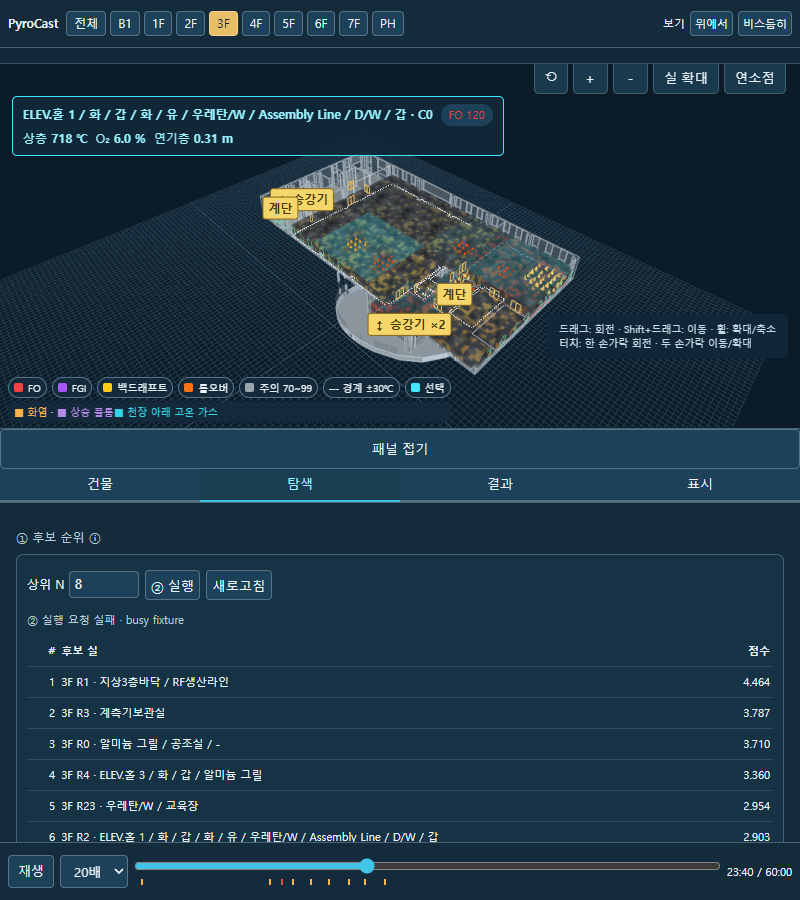
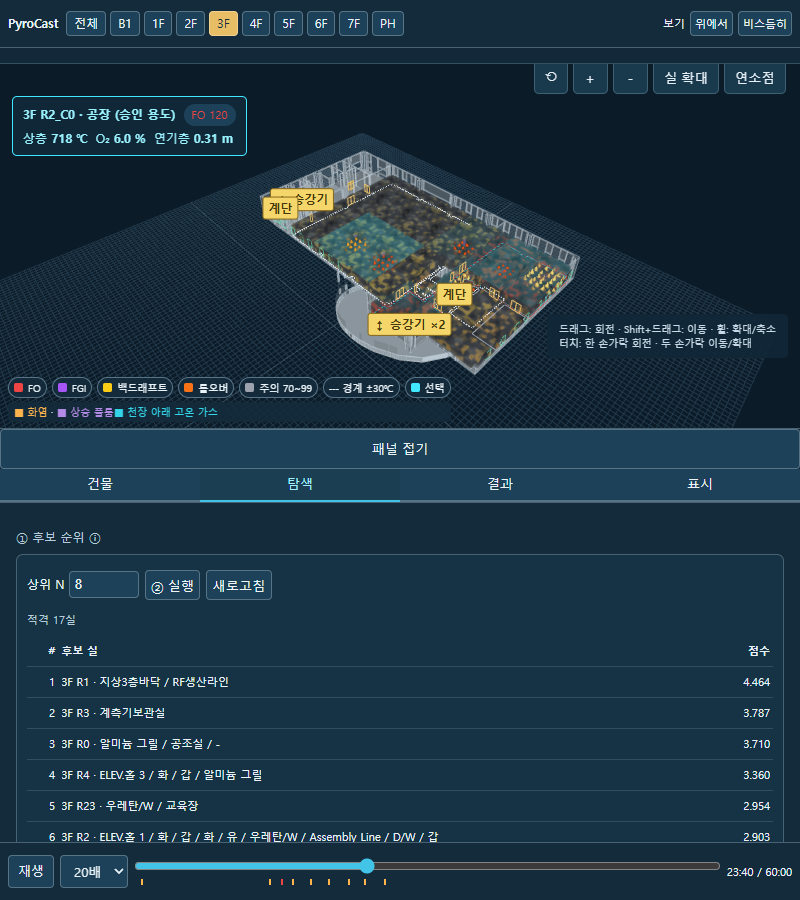
Finalize exploration scope and clarified panel controls

Changed region(s): [[0.0312, 0.0933, 0.5, 0.1867], [0.5312, 0.0933, 0.625, 0.1556], [0.0312, 0.6844, 0.2188, 0.7156]]

diff --git a/PyroCast/simulation/viewer/overlay.js b/PyroCast/simulation/viewer/overlay.js
@@ -1535,7 +1535,7 @@ function createDisplayPanel({store,selectionLabel}){
  const $=id=>document.getElementById(id),pane=$('shellPane-display'),cleanups=[],moves=[];
  const move=(node,parent)=>{const marker=document.createComment('display restore');node.before(marker);moves.push(()=>marker.replaceWith(node));parent.append(node);};
  const listen=(node,event,fn)=>{node.addEventListener(event,fn);cleanups.push(()=>node.removeEventListener(event,fn));};
- pane.innerHTML='<h3>레이어</h3><div id="displayLayers"></div><h3>위험 유형</h3><div id="displayRisks"></div><h3>임계값</h3><div class="displaySettings"><label>테두리 <input id="displayRibbon" type="number" min="0" step="5" value="100"></label><label>주의 <input id="displayCaution" type="number" min="0" step="5" value="70"></label><span id="displayError" role="alert"></span></div><h3>연기</h3><div id="displaySmokeSettings" class="displaySettings"></div>';
+ pane.innerHTML='<h3>보기</h3><div id="displayViewSettings"></div><h3>레이어</h3><div id="displayLayers"></div><h3>위험 유형</h3><div id="displayRisks"></div><h3>임계값</h3><div class="displaySettings"><label>테두리 <input id="displayRibbon" type="number" min="0" step="5" value="100"></label><label>주의 <input id="displayCaution" type="number" min="0" step="5" value="70"></label><span id="displayError" role="alert"></span></div><h3>연기</h3><div id="displaySmokeSettings" class="displaySettings"></div>';
  const bindings=[];
  function toggle(host,id,label,color,read,write,existing=false,tip=''){
   const row=document.createElement('div');row.className='displayToggle';const text=document.createElement('label');text.htmlFor=id;text.innerHTML=`<i style="background:${color}"></i>`;text.append(label);row.append(text);
@@ -1543,6 +1543,7 @@ function createDisplayPanel({store,selectionLabel}){
   let input;if(existing){input=$(id);const oldLabel=input.closest('label');move(input,row);oldLabel.remove();}else{input=document.createElement('input');input.type='checkbox';input.id=id;row.append(input);listen(input,'change',()=>write(input.checked));}
   input.setAttribute('role','switch');host.append(row);bindings.push(()=>input.checked=read());return input;
  }
+ toggle($('displayViewSettings'),'displayReal','실감 보기','#62dcb0',()=>store.get('realView').enabled,enabled=>store.dispatch('realView/set',{enabled}));
  for(const [id,label,color,layer] of [['liteSmoke','연기','#9ca3af','smoke'],['displayFlame','화염','#ffa824','flame'],['litePlumes','상승 플룸·천장 가스','#b38ae6','plume'],['displayRisk','위험 테두리','#ef4444','risk']])toggle($('displayLayers'),id,label,color,()=>store.get('layers')[layer],visible=>store.dispatch('layers/toggle',{id:layer,visible}),id.startsWith('lite'),'저장된 결과의 표시만 전환합니다.');
  for(const [id,label,color,key] of [['liteDoors','실내 문 위치','#e6bd68','interior'],['liteExterior','외부 창','#62dcb0','exterior']])toggle($('displayLayers'),id,label,color,()=>store.get('openings')[key],null,true,'문틀·창 위치 표시이며 시뮬레이션 개폐 조건은 바뀌지 않습니다.');
  toggle($('displayLayers'),'liteCores','계단·승강기 투시','#ffc342',()=>store.get('layers').core,null,true,'전체 건물 보기에서만 표시합니다.');
@@ -1573,7 +1574,7 @@ function createDisplayPanel({store,selectionLabel}){
  for(const slice of ['layers','openings','realView','risk'])cleanups.push(store.subscribe(slice,sync));sync();
  function hud({building,result,series,index,selection}){
   const rooms=building.floors.flatMap(f=>f.rooms),room=rooms.find(r=>r.room_id===selection.room_id),cell=selection.cell_id??(room?.cells.length===1?room.cells[0].cell_id:null),s=cell?series.cells[cell]:null;
-  $('hudRoom').textContent=(room?.name||selection.room_id||'실 선택')+(cell&&cell!==room?.room_id?' · '+cell.split('_').at(-1):'');
+  $('hudRoom').textContent=$('liteRoom').selectedOptions[0]?.textContent||'실 선택';
   const scores=phenomena.map(([key,name,color])=>({key,name,color,value:cell?result.index_by_cell[cell]?.[key]?.[index]:null})).filter(s=>Number.isFinite(s.value)).sort((a,b)=>b.value-a.value),top=scores[0];
   $('hudPill').textContent=top?`${top.name} ${Math.round(top.value)}`:'미평가';$('hudPill').style.color=top?.color||'';
   const format=(n,suffix,digits)=>Number.isFinite(n)?n.toFixed(digits)+suffix:'—';$('hudT').textContent=format(s?.T_upper_C[index],' ℃',0);$('hudO').textContent=format(s?.O2_upper_volfrac[index]==null?null:s.O2_upper_volfrac[index]*100,' %',1);$('hudH').textContent=format(s?.interface_m[index],' m',2);
@@ -1613,8 +1614,10 @@ function createResultsPanel({panel,store}){
  const move=(node,parent)=>{const mark=document.createComment('result restore');node.before(mark);moves.push(()=>mark.replaceWith(node));parent.append(node);};
  root.innerHTML='<h3>저장 결과</h3><div class="resultCard" id="resultCase"><label for="liteCase">사례</label><div id="resultCaseControls"></div><div id="resultMetadata"></div><div class="resultTools" id="resultTools"></div></div><h3>선택 실 위험 지수 <span class="resultInfo" tabindex="0" title="저장된 조건 지수 × 100. 100은 세 조건의 기준이며 발생 확률이 아닙니다. 표시 임계선은 표시 탭 설정을 따릅니다.">ⓘ</span></h3><div class="resultCard"><label for="liteRoom">실·셀</label><div id="resultRoomControl"></div><div id="resultRoomTitle"></div><details id="resultCells"><summary>셀 목록 · 방 평균 없음</summary><div id="resultCellList"></div></details><div id="resultScores"></div><div id="resultBottleneck"></div><details><summary>계산값</summary><div id="resultQuantities"></div></details></div><h3>MC 집계 <span class="resultInfo" tabindex="0" title="표본 비율은 발생 확률이 아닙니다. ≥100은 고정 집계 기준이며 표시 임계값 변경과 별개입니다. 최대 실은 전체 시간 중 한 번 이상 충족한 원래 방 수의 표본 간 최대입니다.">ⓘ</span></h3><div class="resultCard"><div id="resultMCStatus" role="status"></div><button id="resultMCLoad">저장 표본 집계 읽기</button><table><thead><tr><th>현상</th><th>≥100 표본</th><th>최대 실</th><th>지수 최대</th></tr></thead><tbody id="resultMCRows"></tbody></table><div id="resultMCBasis"></div></div><details id="resultLimits"><summary>가정과 한계</summary><ul></ul></details>';
  move($('liteCase'),$('resultCaseControls'));move($('liteRefresh'),$('resultCaseControls'));$('liteRefresh').textContent='목록 새로고침';move($('liteRoom'),$('resultRoomControl'));
- for(const id of ['liteWhole','liteBuilding','liteReal','liteReview'])move($(id),$('resultTools'));
+ $('resultTools').remove();
+ const reviewDetails=document.createElement('details');reviewDetails.id='resultMenuReview';reviewDetails.innerHTML='<summary>전체 메뉴 검토</summary><div id="resultReviewMount"></div>';root.append(reviewDetails);
  const style=document.createElement('style');style.dataset.pyrocastResults='true';style.textContent=`
+ #resultContent #pyroMenuReview{position:static;inset:auto;width:auto;height:auto;max-height:none;overflow:visible;padding:8px 0;border:0;box-shadow:none;z-index:auto;font-size:11px}#resultContent #pyroMenuReview header{display:none}#resultContent #pyroMenuReview .reviewSection{overflow:auto}
  #resultContent{padding:12px 16px;font-size:12px;color:#eaf3f8}#resultContent h3{font-size:12px;font-weight:500;color:#b8cbd8;margin:14px 0 8px}.resultCard{border:1px solid #496273;border-radius:7px;padding:10px;margin-bottom:12px;background:#163345}.resultCard>label{display:block;margin-bottom:5px;color:#b8cbd8}
  #resultContent select{max-width:100%;width:100%;box-sizing:border-box;background:#1d4158;color:#eef5fa;padding:6px;border:1px solid #6a8d9f;border-radius:4px}#resultContent button{background:#1d4158;color:#eef5fa;border:1px solid #577487;border-radius:4px;padding:5px 7px;cursor:pointer}#resultContent button:focus-visible{outline:2px solid #42e8ff}.resultTools{display:flex;flex-wrap:wrap;gap:5px;margin-top:8px}#resultCaseControls button{margin-top:6px}#resultMetadata,#resultBottleneck,#resultMCBasis{font-size:11px;color:#b8cbd8;margin-top:8px}#resultRoomTitle{font-weight:600;margin:10px 0;overflow-wrap:anywhere}#resultCells{margin-bottom:10px}#resultCellList{display:flex;gap:5px;flex-wrap:wrap;padding-top:6px}#resultCellList button[aria-pressed=true]{border-color:#42e8ff;color:#42e8ff}
  .resultScore{display:grid;grid-template-columns:62px 1fr 54px;gap:6px;align-items:center;margin:14px 0}.resultBar{height:7px;background:#304c5e;border-radius:4px;position:relative}.resultFill{display:block;height:100%;border-radius:4px}.resultMark{position:absolute;top:-5px;height:17px;border-left:1px dashed #ced9df}.resultMark.main{border-color:#fff;border-left-style:solid}.resultValue{text-align:right;font-variant-numeric:tabular-nums}.resultScale{font-size:10px;text-align:right;color:#b8cbd8}.resultInfo{cursor:help;color:#b8cbd8}#resultQuantities{display:grid;grid-template-columns:1fr auto;gap:5px;margin-top:8px}#resultContent details{margin-top:8px}#resultContent summary{cursor:pointer;color:#b8cbd8}#resultContent table{width:100%;border-collapse:collapse;font-size:11px;margin-top:8px}#resultContent th,#resultContent td{border-bottom:1px solid #304c5e;padding:7px 2px;text-align:right}#resultContent th:first-child,#resultContent td:first-child{text-align:left}#resultMCLoad{margin-top:8px}#resultLimits li{margin:6px 0;color:#b8cbd8}#resultMCStatus{font-size:11px}
@@ -1644,7 +1647,7 @@ function createResultsPanel({panel,store}){
   $('resultMCStatus').textContent=summary?`저장 ${summary.completed}/${summary.rows.length}표본`:'저장 MC 집계 없음';$('resultMCLoad').disabled=!summary;
  }
  mc(null);
- return {update,mc,dispose(){for(const undo of moves.reverse())undo();panel.hidden=false;root.remove();style.remove();}};
+ return {update,mc,mountReview(review){$('resultReviewMount').append(review);review.hidden=false;},dispose(){for(const undo of moves.reverse())undo();panel.hidden=false;root.remove();style.remove();}};
 }
 
 return {resultTypes,selectedScores,summarizeMCPlayback,createResultsPanel};
@@ -1669,7 +1672,7 @@ function createExplorePanel({store,onRun,onRefresh,onResults}){
  <div class="exploreCard"><form id="exploreRunForm"><label>상위 N <input id="exploreN" type="number" min="1" step="1" value="8" required></label><button id="exploreRun" type="submit" disabled>② 실행</button><button id="exploreRefresh" type="button">새로고침</button></form><div id="exploreStatus" role="status">목록 읽는 중</div><div class="exploreScroll"><table><thead><tr><th>#</th><th>후보 실</th><th>점수</th></tr></thead><tbody id="exploreCandidates"></tbody></table></div></div>
  <h3>② 시뮬레이션 순위 <span tabindex="0" title="기존 서버 순위: 연소 실 수 → 연기 위험 도달 실 수 → 최초 FO가 빠른 순. 두 극단 상태 중 나쁜 쪽을 사용합니다. 행을 선택하면 다음 탐색의 화점만 바뀝니다.">ⓘ</span></h3>
  <div class="exploreCard"><div id="exploreRankBasis"></div><div class="exploreScroll"><table><thead><tr><th>#</th><th>화점</th><th>①순위</th><th>연소</th><th>연기</th><th>최초 FO</th></tr></thead><tbody id="exploreRanking"></tbody></table></div></div>
- <h3>③ 몬테카를로</h3><div class="exploreCard"><label>화점 <select id="exploreOrigin" disabled></select></label><label>표본 수 <input id="exploreSamples" type="number" min="1" step="1" value="10" required></label><div id="exploreEstimate" title="저장된 MC 전체 경과시간 ÷ 완료 표본 수 × 요청 표본 수. 다른 화점과 개폐 조건의 소요시간은 달라질 수 있습니다.">예상 시간 —</div><div class="exploreButtons"><button id="exploreMC" disabled title="현재 서버에 MC 실행 경로가 없습니다. 연결 방식을 확인 중입니다.">실행</button><button id="exploreResults" disabled>결과 보기</button></div><div id="exploreMCStatus" role="status">실행 경로 확인 중</div></div>
+ <h3>③ 몬테카를로</h3><div class="exploreCard"><label>화점 <select id="exploreOrigin" disabled></select></label><label>표본 수 <input id="exploreSamples" type="number" min="1" step="1" value="10" required></label><div id="exploreEstimate" title="저장된 MC 전체 경과시간 ÷ 완료 표본 수 × 요청 표본 수. 다른 화점과 개폐 조건의 소요시간은 달라질 수 있습니다.">예상 시간 —</div><div class="exploreButtons"><button id="exploreMC" disabled title="서버 실행 경로는 5단계">MC 실행</button><button id="exploreResults" disabled>결과 보기</button></div><div id="exploreMCStatus" role="status">MC 실행 · 5단계</div></div>
  <details id="exploreRules"><summary>규칙 설정</summary><div id="exploreRuleContext"></div><div id="exploreRuleMount"></div></details>`;
  const style=document.createElement('style');style.dataset.pyrocastExplore='true';style.textContent=`
  #exploreContent{padding:12px 16px;font-size:12px;color:#eaf3f8}#exploreContent h3{font-size:12px;font-weight:500;color:#b8cbd8;margin:14px 0 8px}#exploreContent h3 span{cursor:help}.exploreCard{border:1px solid #496273;border-radius:7px;padding:10px;margin-bottom:12px;background:#163345}#exploreContent label{display:block;margin:6px 0}#exploreContent input,#exploreContent select,#exploreContent button{background:#1d4158;color:#eef5fa;border:1px solid #577487;border-radius:4px;padding:5px;box-sizing:border-box}#exploreContent input{width:70px}#exploreOrigin{width:100%;margin-top:5px}#exploreContent button{cursor:pointer}#exploreContent :disabled{opacity:.5;cursor:default}#exploreRunForm,.exploreButtons{display:flex;gap:6px;align-items:center;flex-wrap:wrap}#exploreContent :focus-visible{outline:2px solid #42e8ff}.exploreScroll{overflow:auto;max-height:270px}#exploreContent table{border-collapse:collapse;width:100%;font-size:11px}#exploreContent th,#exploreContent td{text-align:right;padding:7px 3px;border-bottom:1px solid #304c5e;white-space:nowrap}#exploreContent th:nth-child(2),#exploreContent td:nth-child(2){text-align:left}#exploreContent td:nth-child(2){white-space:normal;min-width:68px}#exploreContent tr[data-room]{cursor:pointer}#exploreContent tr[aria-selected=true]{background:#245166;box-shadow:inset 2px 0 #42e8ff}#exploreStatus,#exploreRankBasis,#exploreEstimate,#exploreMCStatus,#exploreRuleContext{font-size:11px;color:#b8cbd8;margin:8px 0;overflow-wrap:anywhere}#exploreContent details{margin-top:12px}#exploreContent summary{cursor:pointer;color:#b8cbd8}#exploreRules input{max-width:100%}#exploreRules table{display:block;overflow:auto}#exploreRules #r8SettingsGrid{grid-template-columns:1fr!important}#exploreRules #cfbtFrozenRules>summary{display:none}
@@ -1683,7 +1686,7 @@ function createExplorePanel({store,onRun,onRefresh,onResults}){
   const estimate=mcEstimate(summary,state.samples);$('exploreEstimate').textContent=estimate===null?'예상 시간 미확인':`예상 약 ${Math.ceil(estimate/60)}분 · 이전 MC 기준`;
   const matching=Boolean(summary&&mcOrigin&&state.origin_room_id===mcOrigin);$('exploreResults').disabled=!matching;
   $('exploreResults').title=matching?'선택 화점의 저장 MC 집계 보기':`선택 화점의 저장 MC 결과 없음${mcOrigin?' · 저장 화점 '+pretty(mcOrigin):''}`;
-  $('exploreMCStatus').textContent='실행 경로 확인 중'+(matching?' · 저장 결과 있음':' · 저장 결과 없음');
+  $('exploreMCStatus').textContent='MC 실행 · 5단계'+(matching?' · 저장 결과 있음':' · 저장 결과 없음');
   $('exploreRun').disabled=pending||!payload||Boolean(payload.progress?.running);$('exploreN').disabled=pending||Boolean(payload?.progress?.running);
  }
  $('exploreN').onchange=()=>{if($('exploreN').checkValidity())store.dispatch('exploration/set',{top_n:Number($('exploreN').value)});};
@@ -1792,7 +1795,7 @@ async function attachModern(viewer,initial,{clock={now:()=>performance.now()}}={
   syncOperations();
   host.render();
   const signature=JSON.stringify([index(),selected?.key,clicked,store.get('playback').playing,f,store.get('realView'),store.get('layers'),store.get('openings'),store.get('risk')]);
-  if(signature!==lastPanel){updateLitePanel({data,index:index(),selected,clicked,playing:store.get('playback').playing,floor:f,$,selectionLabel,riskStatus:risk.summary()});const context={building:store.get('building'),result:store.get('result'),series:cache.get(store.get('result').result_id),index:index(),selection:store.get('selection')};display.hud(context);results.update(context);shell.syncStatus();lastPanel=signature;}
+  if(signature!==lastPanel){$('liteReal').setAttribute('aria-pressed',String(store.get('realView').enabled));updateLitePanel({data,index:index(),selected,clicked,playing:store.get('playback').playing,floor:f,$,selectionLabel,riskStatus:risk.summary()});const context={building:store.get('building'),result:store.get('result'),series:cache.get(store.get('result').result_id),index:index(),selection:store.get('selection')};display.hud(context);results.update(context);shell.syncStatus();lastPanel=signature;}
  }finally{busy=false;}}
  function frame(){if(!ready||disposed)return;const ms=clock.now();
   if(document.hidden){last=ms;return;}
@@ -1866,7 +1869,7 @@ async function attachModern(viewer,initial,{clock={now:()=>performance.now()}}={
   const descriptions=[...rules.querySelectorAll(':scope > p, :scope > form > p')].filter(p=>p.getAttribute('role')!=='alert');
   $('exploreRules').querySelector('summary').title=descriptions.map(p=>p.textContent).join(' ');for(const p of descriptions)p.hidden=true;
  }catch(error){$('exploreRuleMount').textContent='규칙 설정 읽기 실패 · '+error.message;}
- const review=await createMenuReview(panel,viewer);review.hidden=true;handler($('liteReview'),'onclick',()=>{review.hidden=false;});document.body.classList.add('cfbtReady');resize();
+ const review=await createMenuReview(panel,viewer);results.mountReview(review);handler($('reviewClose'),'onclick',()=>{$('resultMenuReview').open=false;});handler($('liteReview'),'onclick',()=>{$('shellTab-result').click();$('resultMenuReview').open=true;});document.body.classList.add('cfbtReady');resize();
  function dispose(){if(disposed)return;disposed=true;screeningRequest++;exploreAbort.abort();if(screeningPoll)clearTimeout(screeningPoll);frozenRules?.dispose();loadSerial++;mcRun++;mcAbort?.abort();store.dispatch('result/load');observer.disconnect();for(const off of cleanup.reverse())off();review.dispose();host.dispose();explore.dispose();results.dispose();display.dispose();shell.dispose();cache.clear();panel.remove();selectionLabel.remove();style.remove();legacyRoot.visible=legacyVisible;document.body.classList.toggle('cfbtReady',wasReady);if(panelHeight)document.documentElement.style.setProperty('--cfbt-height',panelHeight);else document.documentElement.style.removeProperty('--cfbt-height');}
  on(window,'pagehide',dispose);
  return Object.freeze({store,host,layers,render,install,dispose,diagnostics:()=>({ui:'modern',autoFit,case_id:chosen,canvasCount:$('v').querySelectorAll('canvas').length,legendCount:document.querySelectorAll('#cfMeaning').length})});

diff --git a/PyroCast/app/web/panels/explore.js b/PyroCast/app/web/panels/explore.js
@@ -15,7 +15,7 @@ export function createExplorePanel({store,onRun,onRefresh,onResults}){
  <div class="exploreCard"><form id="exploreRunForm"><label>상위 N <input id="exploreN" type="number" min="1" step="1" value="8" required></label><button id="exploreRun" type="submit" disabled>② 실행</button><button id="exploreRefresh" type="button">새로고침</button></form><div id="exploreStatus" role="status">목록 읽는 중</div><div class="exploreScroll"><table><thead><tr><th>#</th><th>후보 실</th><th>점수</th></tr></thead><tbody id="exploreCandidates"></tbody></table></div></div>
  <h3>② 시뮬레이션 순위 <span tabindex="0" title="기존 서버 순위: 연소 실 수 → 연기 위험 도달 실 수 → 최초 FO가 빠른 순. 두 극단 상태 중 나쁜 쪽을 사용합니다. 행을 선택하면 다음 탐색의 화점만 바뀝니다.">ⓘ</span></h3>
  <div class="exploreCard"><div id="exploreRankBasis"></div><div class="exploreScroll"><table><thead><tr><th>#</th><th>화점</th><th>①순위</th><th>연소</th><th>연기</th><th>최초 FO</th></tr></thead><tbody id="exploreRanking"></tbody></table></div></div>
- <h3>③ 몬테카를로</h3><div class="exploreCard"><label>화점 <select id="exploreOrigin" disabled></select></label><label>표본 수 <input id="exploreSamples" type="number" min="1" step="1" value="10" required></label><div id="exploreEstimate" title="저장된 MC 전체 경과시간 ÷ 완료 표본 수 × 요청 표본 수. 다른 화점과 개폐 조건의 소요시간은 달라질 수 있습니다.">예상 시간 —</div><div class="exploreButtons"><button id="exploreMC" disabled title="현재 서버에 MC 실행 경로가 없습니다. 연결 방식을 확인 중입니다.">실행</button><button id="exploreResults" disabled>결과 보기</button></div><div id="exploreMCStatus" role="status">실행 경로 확인 중</div></div>
+ <h3>③ 몬테카를로</h3><div class="exploreCard"><label>화점 <select id="exploreOrigin" disabled></select></label><label>표본 수 <input id="exploreSamples" type="number" min="1" step="1" value="10" required></label><div id="exploreEstimate" title="저장된 MC 전체 경과시간 ÷ 완료 표본 수 × 요청 표본 수. 다른 화점과 개폐 조건의 소요시간은 달라질 수 있습니다.">예상 시간 —</div><div class="exploreButtons"><button id="exploreMC" disabled title="서버 실행 경로는 5단계">MC 실행</button><button id="exploreResults" disabled>결과 보기</button></div><div id="exploreMCStatus" role="status">MC 실행 · 5단계</div></div>
  <details id="exploreRules"><summary>규칙 설정</summary><div id="exploreRuleContext"></div><div id="exploreRuleMount"></div></details>`;
  const style=document.createElement('style');style.dataset.pyrocastExplore='true';style.textContent=`
  #exploreContent{padding:12px 16px;font-size:12px;color:#eaf3f8}#exploreContent h3{font-size:12px;font-weight:500;color:#b8cbd8;margin:14px 0 8px}#exploreContent h3 span{cursor:help}.exploreCard{border:1px solid #496273;border-radius:7px;padding:10px;margin-bottom:12px;background:#163345}#exploreContent label{display:block;margin:6px 0}#exploreContent input,#exploreContent select,#exploreContent button{background:#1d4158;color:#eef5fa;border:1px solid #577487;border-radius:4px;padding:5px;box-sizing:border-box}#exploreContent input{width:70px}#exploreOrigin{width:100%;margin-top:5px}#exploreContent button{cursor:pointer}#exploreContent :disabled{opacity:.5;cursor:default}#exploreRunForm,.exploreButtons{display:flex;gap:6px;align-items:center;flex-wrap:wrap}#exploreContent :focus-visible{outline:2px solid #42e8ff}.exploreScroll{overflow:auto;max-height:270px}#exploreContent table{border-collapse:collapse;width:100%;font-size:11px}#exploreContent th,#exploreContent td{text-align:right;padding:7px 3px;border-bottom:1px solid #304c5e;white-space:nowrap}#exploreContent th:nth-child(2),#exploreContent td:nth-child(2){text-align:left}#exploreContent td:nth-child(2){white-space:normal;min-width:68px}#exploreContent tr[data-room]{cursor:pointer}#exploreContent tr[aria-selected=true]{background:#245166;box-shadow:inset 2px 0 #42e8ff}#exploreStatus,#exploreRankBasis,#exploreEstimate,#exploreMCStatus,#exploreRuleContext{font-size:11px;color:#b8cbd8;margin:8px 0;overflow-wrap:anywhere}#exploreContent details{margin-top:12px}#exploreContent summary{cursor:pointer;color:#b8cbd8}#exploreRules input{max-width:100%}#exploreRules table{display:block;overflow:auto}#exploreRules #r8SettingsGrid{grid-template-columns:1fr!important}#exploreRules #cfbtFrozenRules>summary{display:none}
@@ -29,7 +29,7 @@ export function createExplorePanel({store,onRun,onRefresh,onResults}){
   const estimate=mcEstimate(summary,state.samples);$('exploreEstimate').textContent=estimate===null?'예상 시간 미확인':`예상 약 ${Math.ceil(estimate/60)}분 · 이전 MC 기준`;
   const matching=Boolean(summary&&mcOrigin&&state.origin_room_id===mcOrigin);$('exploreResults').disabled=!matching;
   $('exploreResults').title=matching?'선택 화점의 저장 MC 집계 보기':`선택 화점의 저장 MC 결과 없음${mcOrigin?' · 저장 화점 '+pretty(mcOrigin):''}`;
-  $('exploreMCStatus').textContent='실행 경로 확인 중'+(matching?' · 저장 결과 있음':' · 저장 결과 없음');
+  $('exploreMCStatus').textContent='MC 실행 · 5단계'+(matching?' · 저장 결과 있음':' · 저장 결과 없음');
   $('exploreRun').disabled=pending||!payload||Boolean(payload.progress?.running);$('exploreN').disabled=pending||Boolean(payload?.progress?.running);
  }
  $('exploreN').onchange=()=>{if($('exploreN').checkValidity())store.dispatch('exploration/set',{top_n:Number($('exploreN').value)});};

diff --git a/PyroCast/app/web/panels/results.js b/PyroCast/app/web/panels/results.js
@@ -24,8 +24,10 @@ export function createResultsPanel({panel,store}){
  const move=(node,parent)=>{const mark=document.createComment('result restore');node.before(mark);moves.push(()=>mark.replaceWith(node));parent.append(node);};
  root.innerHTML='<h3>저장 결과</h3><div class="resultCard" id="resultCase"><label for="liteCase">사례</label><div id="resultCaseControls"></div><div id="resultMetadata"></div><div class="resultTools" id="resultTools"></div></div><h3>선택 실 위험 지수 <span class="resultInfo" tabindex="0" title="저장된 조건 지수 × 100. 100은 세 조건의 기준이며 발생 확률이 아닙니다. 표시 임계선은 표시 탭 설정을 따릅니다.">ⓘ</span></h3><div class="resultCard"><label for="liteRoom">실·셀</label><div id="resultRoomControl"></div><div id="resultRoomTitle"></div><details id="resultCells"><summary>셀 목록 · 방 평균 없음</summary><div id="resultCellList"></div></details><div id="resultScores"></div><div id="resultBottleneck"></div><details><summary>계산값</summary><div id="resultQuantities"></div></details></div><h3>MC 집계 <span class="resultInfo" tabindex="0" title="표본 비율은 발생 확률이 아닙니다. ≥100은 고정 집계 기준이며 표시 임계값 변경과 별개입니다. 최대 실은 전체 시간 중 한 번 이상 충족한 원래 방 수의 표본 간 최대입니다.">ⓘ</span></h3><div class="resultCard"><div id="resultMCStatus" role="status"></div><button id="resultMCLoad">저장 표본 집계 읽기</button><table><thead><tr><th>현상</th><th>≥100 표본</th><th>최대 실</th><th>지수 최대</th></tr></thead><tbody id="resultMCRows"></tbody></table><div id="resultMCBasis"></div></div><details id="resultLimits"><summary>가정과 한계</summary><ul></ul></details>';
  move($('liteCase'),$('resultCaseControls'));move($('liteRefresh'),$('resultCaseControls'));$('liteRefresh').textContent='목록 새로고침';move($('liteRoom'),$('resultRoomControl'));
- for(const id of ['liteWhole','liteBuilding','liteReal','liteReview'])move($(id),$('resultTools'));
+ $('resultTools').remove();
+ const reviewDetails=document.createElement('details');reviewDetails.id='resultMenuReview';reviewDetails.innerHTML='<summary>전체 메뉴 검토</summary><div id="resultReviewMount"></div>';root.append(reviewDetails);
  const style=document.createElement('style');style.dataset.pyrocastResults='true';style.textContent=`
+ #resultContent #pyroMenuReview{position:static;inset:auto;width:auto;height:auto;max-height:none;overflow:visible;padding:8px 0;border:0;box-shadow:none;z-index:auto;font-size:11px}#resultContent #pyroMenuReview header{display:none}#resultContent #pyroMenuReview .reviewSection{overflow:auto}
  #resultContent{padding:12px 16px;font-size:12px;color:#eaf3f8}#resultContent h3{font-size:12px;font-weight:500;color:#b8cbd8;margin:14px 0 8px}.resultCard{border:1px solid #496273;border-radius:7px;padding:10px;margin-bottom:12px;background:#163345}.resultCard>label{display:block;margin-bottom:5px;color:#b8cbd8}
  #resultContent select{max-width:100%;width:100%;box-sizing:border-box;background:#1d4158;color:#eef5fa;padding:6px;border:1px solid #6a8d9f;border-radius:4px}#resultContent button{background:#1d4158;color:#eef5fa;border:1px solid #577487;border-radius:4px;padding:5px 7px;cursor:pointer}#resultContent button:focus-visible{outline:2px solid #42e8ff}.resultTools{display:flex;flex-wrap:wrap;gap:5px;margin-top:8px}#resultCaseControls button{margin-top:6px}#resultMetadata,#resultBottleneck,#resultMCBasis{font-size:11px;color:#b8cbd8;margin-top:8px}#resultRoomTitle{font-weight:600;margin:10px 0;overflow-wrap:anywhere}#resultCells{margin-bottom:10px}#resultCellList{display:flex;gap:5px;flex-wrap:wrap;padding-top:6px}#resultCellList button[aria-pressed=true]{border-color:#42e8ff;color:#42e8ff}
  .resultScore{display:grid;grid-template-columns:62px 1fr 54px;gap:6px;align-items:center;margin:14px 0}.resultBar{height:7px;background:#304c5e;border-radius:4px;position:relative}.resultFill{display:block;height:100%;border-radius:4px}.resultMark{position:absolute;top:-5px;height:17px;border-left:1px dashed #ced9df}.resultMark.main{border-color:#fff;border-left-style:solid}.resultValue{text-align:right;font-variant-numeric:tabular-nums}.resultScale{font-size:10px;text-align:right;color:#b8cbd8}.resultInfo{cursor:help;color:#b8cbd8}#resultQuantities{display:grid;grid-template-columns:1fr auto;gap:5px;margin-top:8px}#resultContent details{margin-top:8px}#resultContent summary{cursor:pointer;color:#b8cbd8}#resultContent table{width:100%;border-collapse:collapse;font-size:11px;margin-top:8px}#resultContent th,#resultContent td{border-bottom:1px solid #304c5e;padding:7px 2px;text-align:right}#resultContent th:first-child,#resultContent td:first-child{text-align:left}#resultMCLoad{margin-top:8px}#resultLimits li{margin:6px 0;color:#b8cbd8}#resultMCStatus{font-size:11px}
@@ -55,5 +57,5 @@ export function createResultsPanel({panel,store}){
   $('resultMCStatus').textContent=summary?`저장 ${summary.completed}/${summary.rows.length}표본`:'저장 MC 집계 없음';$('resultMCLoad').disabled=!summary;
  }
  mc(null);
- return {update,mc,dispose(){for(const undo of moves.reverse())undo();panel.hidden=false;root.remove();style.remove();}};
+ return {update,mc,mountReview(review){$('resultReviewMount').append(review);review.hidden=false;},dispose(){for(const undo of moves.reverse())undo();panel.hidden=false;root.remove();style.remove();}};
 }

diff --git a/PyroCast/app/web/panels/display.js b/PyroCast/app/web/panels/display.js
@@ -3,7 +3,7 @@ export function createDisplayPanel({store,selectionLabel}){
  const $=id=>document.getElementById(id),pane=$('shellPane-display'),cleanups=[],moves=[];
  const move=(node,parent)=>{const marker=document.createComment('display restore');node.before(marker);moves.push(()=>marker.replaceWith(node));parent.append(node);};
  const listen=(node,event,fn)=>{node.addEventListener(event,fn);cleanups.push(()=>node.removeEventListener(event,fn));};
- pane.innerHTML='<h3>레이어</h3><div id="displayLayers"></div><h3>위험 유형</h3><div id="displayRisks"></div><h3>임계값</h3><div class="displaySettings"><label>테두리 <input id="displayRibbon" type="number" min="0" step="5" value="100"></label><label>주의 <input id="displayCaution" type="number" min="0" step="5" value="70"></label><span id="displayError" role="alert"></span></div><h3>연기</h3><div id="displaySmokeSettings" class="displaySettings"></div>';
+ pane.innerHTML='<h3>보기</h3><div id="displayViewSettings"></div><h3>레이어</h3><div id="displayLayers"></div><h3>위험 유형</h3><div id="displayRisks"></div><h3>임계값</h3><div class="displaySettings"><label>테두리 <input id="displayRibbon" type="number" min="0" step="5" value="100"></label><label>주의 <input id="displayCaution" type="number" min="0" step="5" value="70"></label><span id="displayError" role="alert"></span></div><h3>연기</h3><div id="displaySmokeSettings" class="displaySettings"></div>';
  const bindings=[];
  function toggle(host,id,label,color,read,write,existing=false,tip=''){
   const row=document.createElement('div');row.className='displayToggle';const text=document.createElement('label');text.htmlFor=id;text.innerHTML=`<i style="background:${color}"></i>`;text.append(label);row.append(text);
@@ -11,6 +11,7 @@ export function createDisplayPanel({store,selectionLabel}){
   let input;if(existing){input=$(id);const oldLabel=input.closest('label');move(input,row);oldLabel.remove();}else{input=document.createElement('input');input.type='checkbox';input.id=id;row.append(input);listen(input,'change',()=>write(input.checked));}
   input.setAttribute('role','switch');host.append(row);bindings.push(()=>input.checked=read());return input;
  }
+ toggle($('displayViewSettings'),'displayReal','실감 보기','#62dcb0',()=>store.get('realView').enabled,enabled=>store.dispatch('realView/set',{enabled}));
  for(const [id,label,color,layer] of [['liteSmoke','연기','#9ca3af','smoke'],['displayFlame','화염','#ffa824','flame'],['litePlumes','상승 플룸·천장 가스','#b38ae6','plume'],['displayRisk','위험 테두리','#ef4444','risk']])toggle($('displayLayers'),id,label,color,()=>store.get('layers')[layer],visible=>store.dispatch('layers/toggle',{id:layer,visible}),id.startsWith('lite'),'저장된 결과의 표시만 전환합니다.');
  for(const [id,label,color,key] of [['liteDoors','실내 문 위치','#e6bd68','interior'],['liteExterior','외부 창','#62dcb0','exterior']])toggle($('displayLayers'),id,label,color,()=>store.get('openings')[key],null,true,'문틀·창 위치 표시이며 시뮬레이션 개폐 조건은 바뀌지 않습니다.');
  toggle($('displayLayers'),'liteCores','계단·승강기 투시','#ffc342',()=>store.get('layers').core,null,true,'전체 건물 보기에서만 표시합니다.');
@@ -41,7 +42,7 @@ export function createDisplayPanel({store,selectionLabel}){
  for(const slice of ['layers','openings','realView','risk'])cleanups.push(store.subscribe(slice,sync));sync();
  function hud({building,result,series,index,selection}){
   const rooms=building.floors.flatMap(f=>f.rooms),room=rooms.find(r=>r.room_id===selection.room_id),cell=selection.cell_id??(room?.cells.length===1?room.cells[0].cell_id:null),s=cell?series.cells[cell]:null;
-  $('hudRoom').textContent=(room?.name||selection.room_id||'실 선택')+(cell&&cell!==room?.room_id?' · '+cell.split('_').at(-1):'');
+  $('hudRoom').textContent=$('liteRoom').selectedOptions[0]?.textContent||'실 선택';
   const scores=phenomena.map(([key,name,color])=>({key,name,color,value:cell?result.index_by_cell[cell]?.[key]?.[index]:null})).filter(s=>Number.isFinite(s.value)).sort((a,b)=>b.value-a.value),top=scores[0];
   $('hudPill').textContent=top?`${top.name} ${Math.round(top.value)}`:'미평가';$('hudPill').style.color=top?.color||'';
   const format=(n,suffix,digits)=>Number.isFinite(n)?n.toFixed(digits)+suffix:'—';$('hudT').textContent=format(s?.T_upper_C[index],' ℃',0);$('hudO').textContent=format(s?.O2_upper_volfrac[index]==null?null:s.O2_upper_volfrac[index]*100,' %',1);$('hudH').textContent=format(s?.interface_m[index],' m',2);

diff --git a/PyroCast/app/web/controller.js b/PyroCast/app/web/controller.js
@@ -78,7 +78,7 @@ export async function attachModern(viewer,initial,{clock={now:()=>performance.no
   syncOperations();
   host.render();
   const signature=JSON.stringify([index(),selected?.key,clicked,store.get('playback').playing,f,store.get('realView'),store.get('layers'),store.get('openings'),store.get('risk')]);
-  if(signature!==lastPanel){updateLitePanel({data,index:index(),selected,clicked,playing:store.get('playback').playing,floor:f,$,selectionLabel,riskStatus:risk.summary()});const context={building:store.get('building'),result:store.get('result'),series:cache.get(store.get('result').result_id),index:index(),selection:store.get('selection')};display.hud(context);results.update(context);shell.syncStatus();lastPanel=signature;}
+  if(signature!==lastPanel){$('liteReal').setAttribute('aria-pressed',String(store.get('realView').enabled));updateLitePanel({data,index:index(),selected,clicked,playing:store.get('playback').playing,floor:f,$,selectionLabel,riskStatus:risk.summary()});const context={building:store.get('building'),result:store.get('result'),series:cache.get(store.get('result').result_id),index:index(),selection:store.get('selection')};display.hud(context);results.update(context);shell.syncStatus();lastPanel=signature;}
  }finally{busy=false;}}
  function frame(){if(!ready||disposed)return;const ms=clock.now();
   if(document.hidden){last=ms;return;}
@@ -152,7 +152,7 @@ export async function attachModern(viewer,initial,{clock={now:()=>performance.no
   const descriptions=[...rules.querySelectorAll(':scope > p, :scope > form > p')].filter(p=>p.getAttribute('role')!=='alert');
   $('exploreRules').querySelector('summary').title=descriptions.map(p=>p.textContent).join(' ');for(const p of descriptions)p.hidden=true;
  }catch(error){$('exploreRuleMount').textContent='규칙 설정 읽기 실패 · '+error.message;}
- const review=await createMenuReview(panel,viewer);review.hidden=true;handler($('liteReview'),'onclick',()=>{review.hidden=false;});document.body.classList.add('cfbtReady');resize();
+ const review=await createMenuReview(panel,viewer);results.mountReview(review);handler($('reviewClose'),'onclick',()=>{$('resultMenuReview').open=false;});handler($('liteReview'),'onclick',()=>{$('shellTab-result').click();$('resultMenuReview').open=true;});document.body.classList.add('cfbtReady');resize();
  function dispose(){if(disposed)return;disposed=true;screeningRequest++;exploreAbort.abort();if(screeningPoll)clearTimeout(screeningPoll);frozenRules?.dispose();loadSerial++;mcRun++;mcAbort?.abort();store.dispatch('result/load');observer.disconnect();for(const off of cleanup.reverse())off();review.dispose();host.dispose();explore.dispose();results.dispose();display.dispose();shell.dispose();cache.clear();panel.remove();selectionLabel.remove();style.remove();legacyRoot.visible=legacyVisible;document.body.classList.toggle('cfbtReady',wasReady);if(panelHeight)document.documentElement.style.setProperty('--cfbt-height',panelHeight);else document.documentElement.style.removeProperty('--cfbt-height');}
  on(window,'pagehide',dispose);
  return Object.freeze({store,host,layers,render,install,dispose,diagnostics:()=>({ui:'modern',autoFit,case_id:chosen,canvasCount:$('v').querySelectorAll('canvas').length,legendCount:document.querySelectorAll('#cfMeaning').length})});

diff --git a/PyroCast/app/README.md b/PyroCast/app/README.md
@@ -164,6 +164,14 @@ S09 1800 s / 1420 s, S06 890 s and whole-building/core ON all compare at zero ch
 
 The controller uses the unchanged GET/POST `/cfbt/lite/screening` route. A run sends `{top_n,mc_room,run:true}`, polls while running, preserves the old ranking on an error, and never automatically replaces playback. The folded rules section imports the unchanged `frozen_rule_controls.js` and its existing `/cfbt/r8/*` routes. Its context explicitly identifies the selected origin/current result horizon and server-default door/window settings; it is a separate native review calculation, not MC. No engine or server code is changed.
 
-**Pending user clarification:** there is no MC execution route in the current server (only saved result reads and the screening/r8 runners). The MC run button is disabled, with no invented endpoint; the user has been asked to approve this temporary state or provide the existing route. The requested “two fixes above” were not present in the supplied context/spec, so their contents have also been requested. Do not claim the complete item is accepted while these remain unresolved. Results opens the existing saved MC summary only for the saved origin; unavailable origins stay disabled. The saved origin is read from a catalog-listed completed playback (initial playback if it belongs to MC, otherwise the first completed sample); this is a catalog-level association, not a new MC calculation.
+**User decision (2026-10-28):** this item implements the MC card and saved-results view only. The disabled “MC 실행” button has the exact tooltip “서버 실행 경로는 5단계”. No MC endpoint is added now. Results opens the existing saved MC summary only for the saved origin; unavailable origins stay disabled. The saved origin is read from a catalog-listed completed playback (initial playback if it belongs to MC, otherwise the first completed sample).
+
+The two clarified UI corrections are included: HUD uses exactly the current result-selector option label (floor/cell + approved display name, not raw CAD labels); whole-floor/building fit buttons are removed from the visible case card; real view is a Display-tab switch; the menu review content is folded at the very bottom of Results. Hidden compatibility controls remain outside the visible panels so existing camera handlers and legacy rollback are preserved.
 
 Verification: `node app/tests/explore.unit.mjs`; `node app/tests/explore.test.mjs`; `python app/tests/compare_explore.py`. Supply the previous 8ab8504 overlay bundle in the evidence folder. Four fixed-clock, equal-camera 1000x600 renderer comparisons have zero changed pixels, with the whole risk layer disabled on both sides. This immediately previous reference was already proven pixel-identical to stage 3. UI tests intercept all POST requests, so no simulations or selection config writes are performed. Click/keyboard selection and sample changes generate zero fetches and preserve result/scene selection/time/camera (camera floats compared to 10 decimal places; pixel comparison remains exact). Rules/screening payloads, N validation, saved MC reads and disposal are checked. Evidence: `simulation/results/ui_refactor_stage4_item4_20261028`. No push. Stop before item 5.
+
+
+## Stage 5 backlog — server integration (not implemented)
+
+- Add `POST /cfbt/lite/mc`: connect the MC card's selected origin and sample count to server execution. Define validation, job/progress/error handling and result registration before enabling “MC 실행”. The route is planned only; server files remain unchanged in stage 4.
+- Existing cache-key change remains a separate approval item before stage 5.
